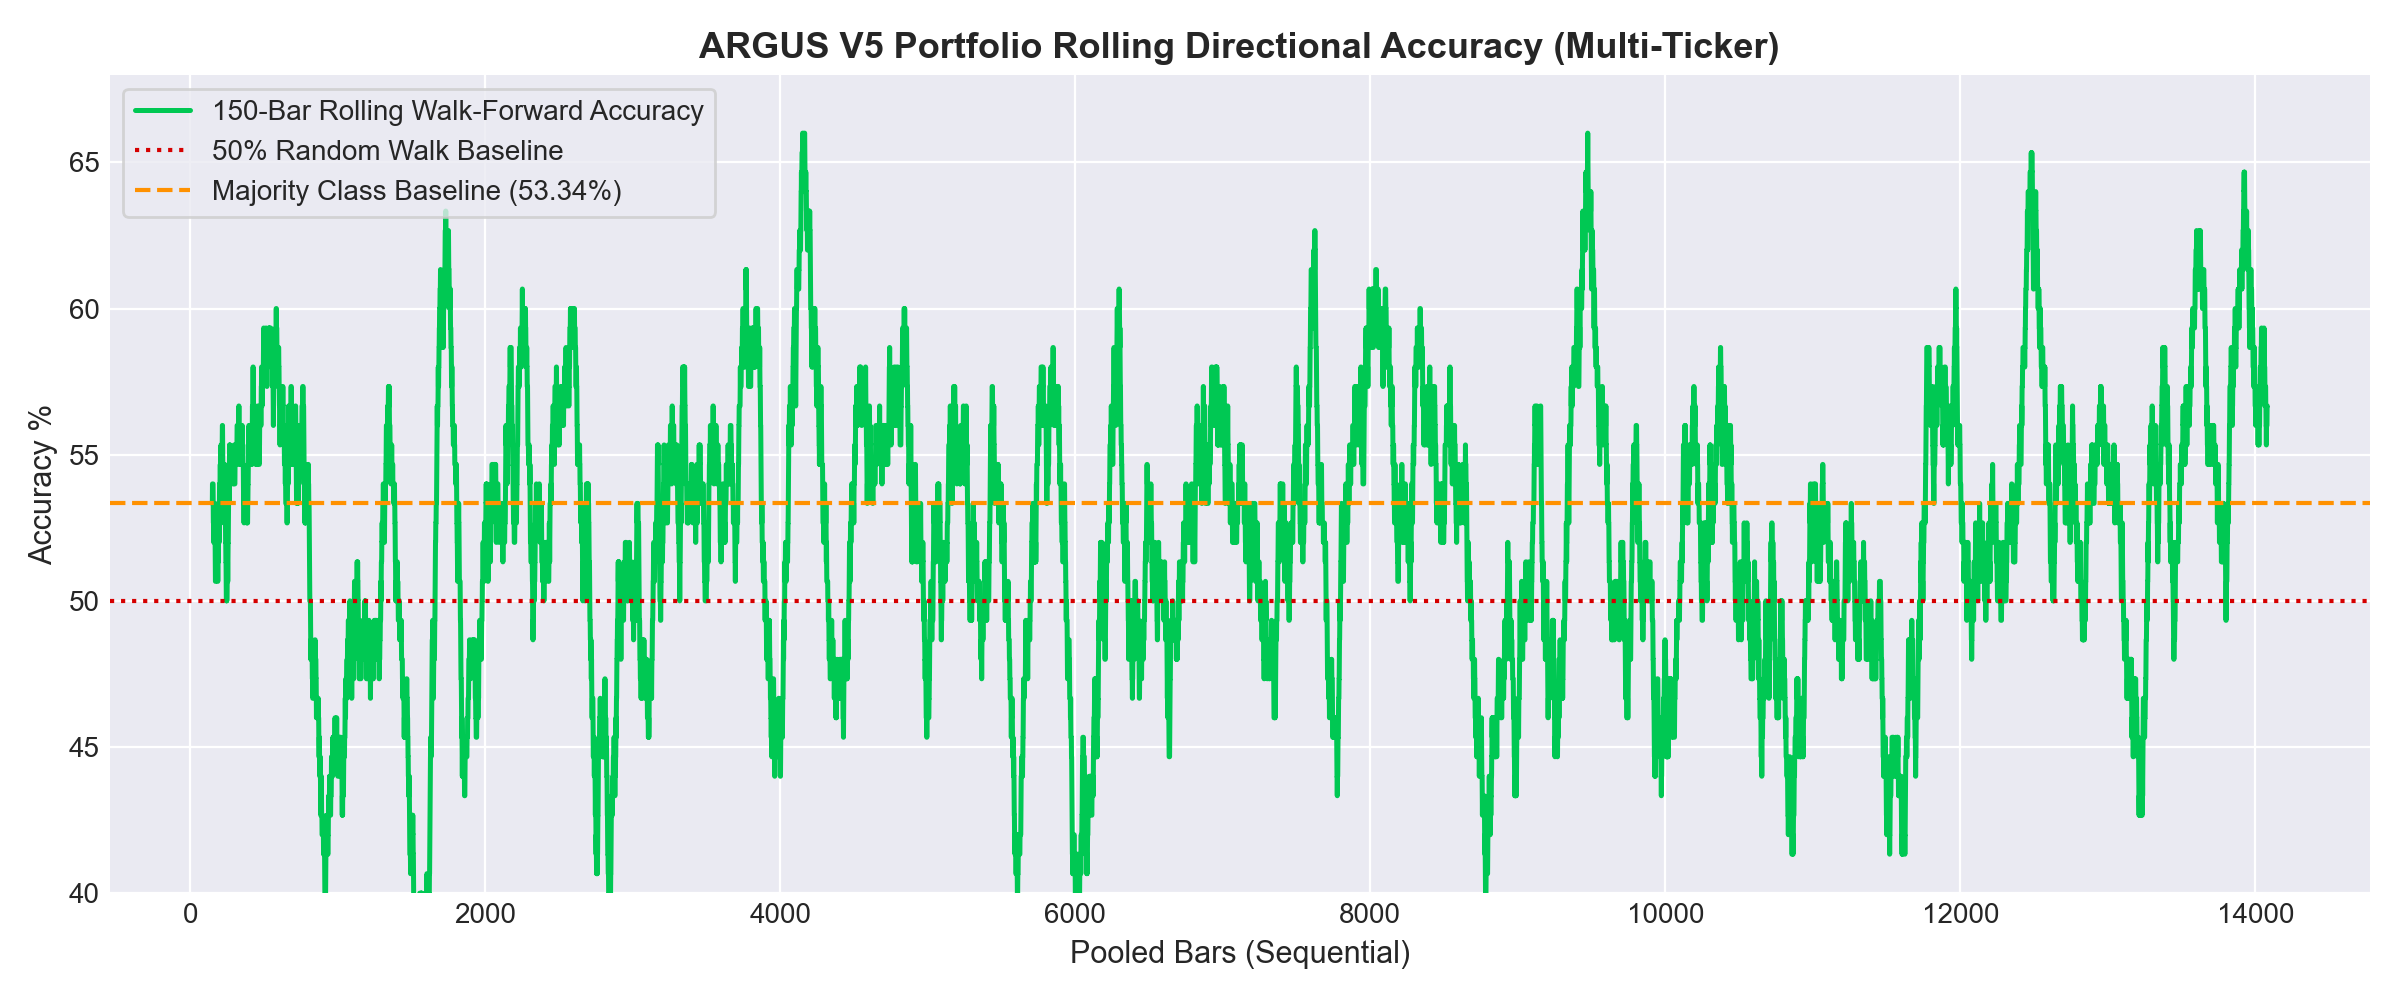
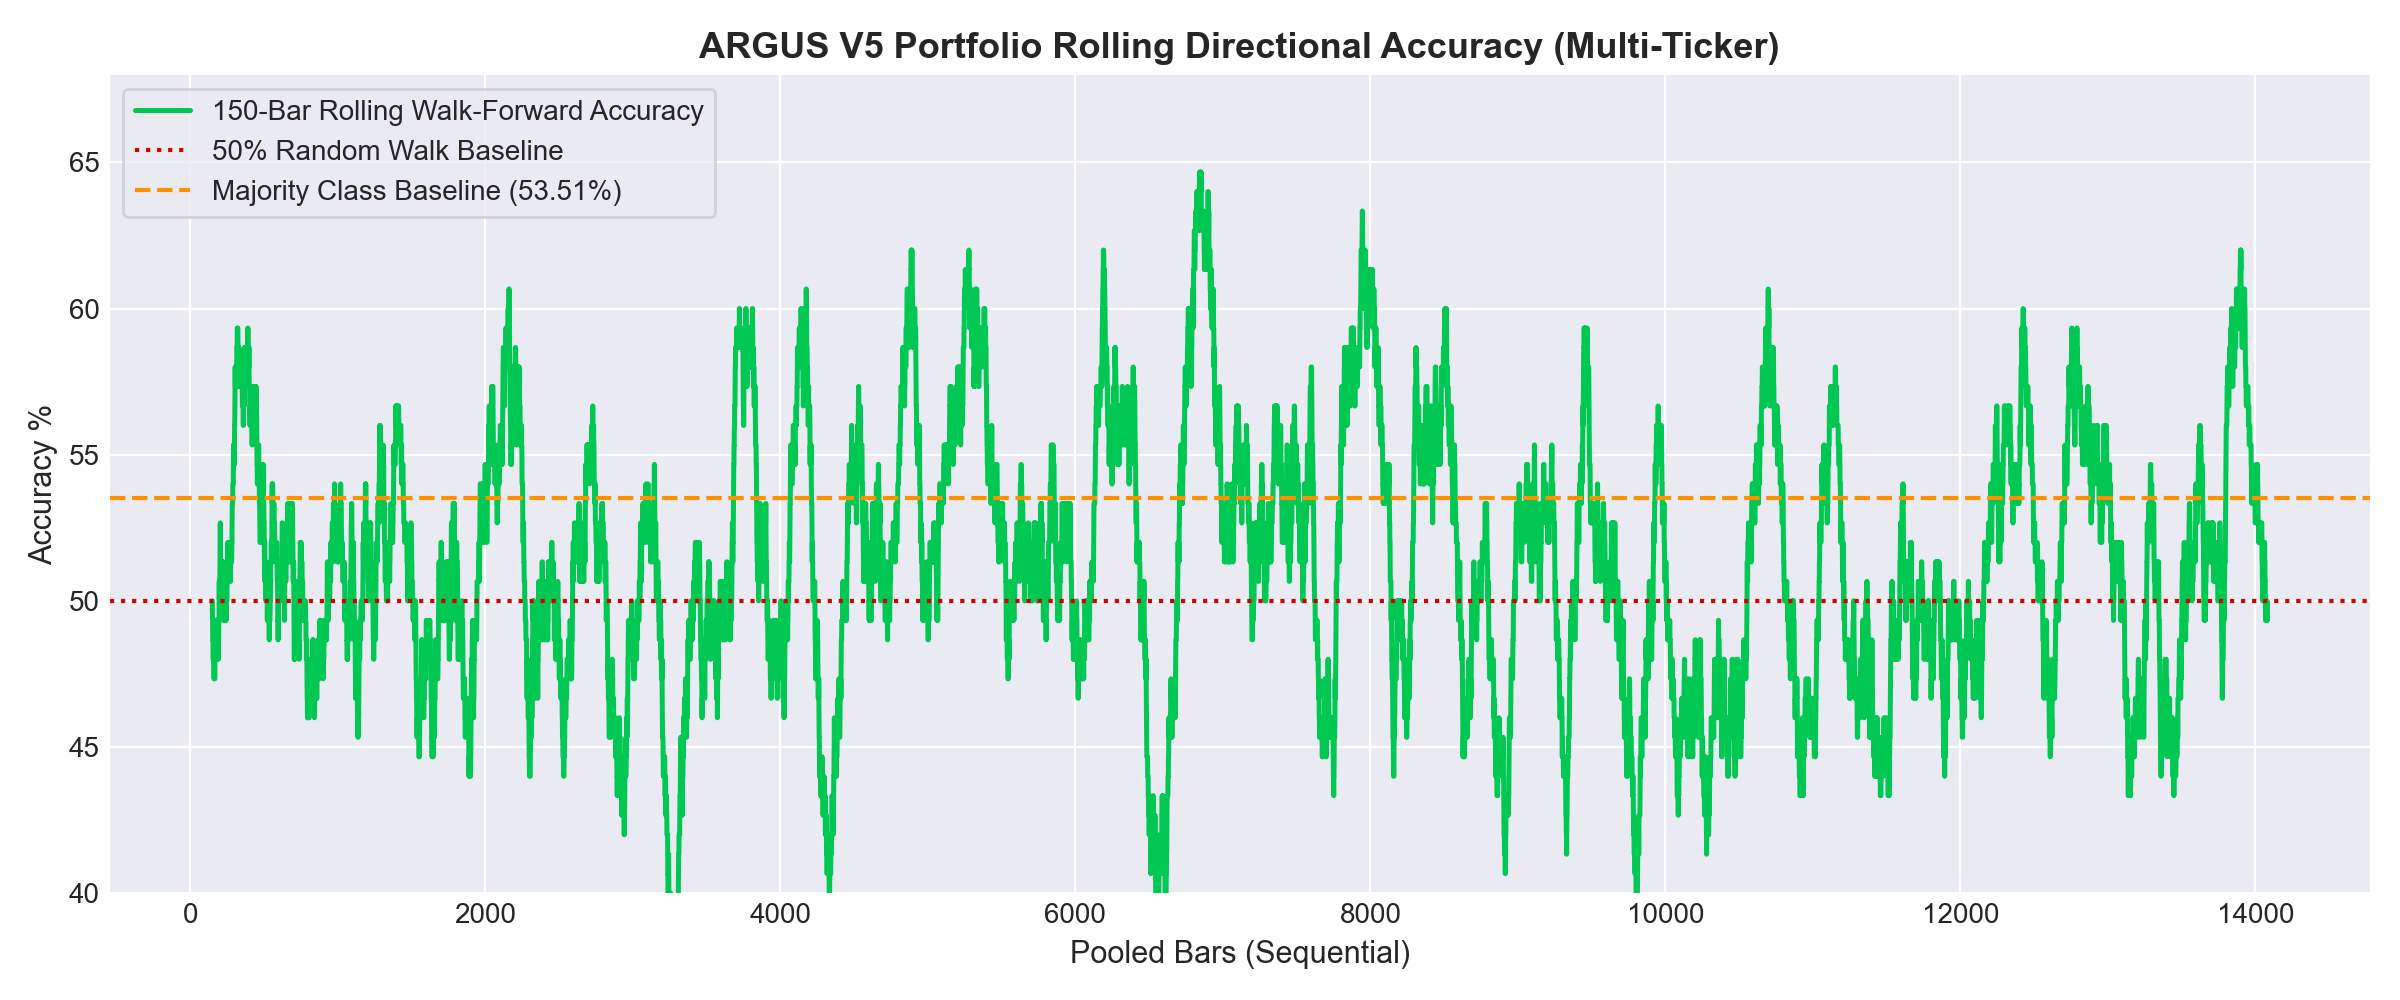
feat(ml): swap HoeffdingAdaptiveTreeClassifier with River ARFClassifier ensemble

Changed region(s): [[0.0312, 0.155, 1.0, 0.899], [0.5625, 0.899, 0.5938, 0.93]]

diff --git a/intelligence/online_learner.py b/intelligence/online_learner.py
@@ -10,7 +10,7 @@ import threading
 from datetime import datetime, timezone
 from typing import Dict, Any, Optional, Tuple
 
-from river import tree, preprocessing, drift, metrics
+from river import forest, preprocessing, drift, metrics
 from config import BASE_DIR
 from data.feature_store import FeatureStore
 
@@ -20,9 +20,9 @@ DEFAULT_ONLINE_MODEL_PATH = os.path.join(DEFAULT_MODEL_DIR, "online_learner.pkl"
 
 class OnlineLearner:
     """
-    Incremental ML classifier for continuous 5-minute directional market prediction.
+    Incremental ML classifier for continuous 15-minute directional market prediction.
     Features:
-    - Incremental Hoeffding Adaptive Tree (HAT) robust to non-stationary streams
+    - Incremental Adaptive Random Forest (ARF) ensemble robust to non-stationary streams
     - Online standard scaling of incoming numerical features
     - ADWIN (Adaptive Windowing) concept drift detection on classification error
     - Real-time calibration tracking via Brier Score and Rolling Accuracy
@@ -35,22 +35,26 @@ class OnlineLearner:
         feature_store: Optional[FeatureStore] = None,
         grace_period: int = 50,
         adwin_delta: float = 0.002,
+        n_models: int = 10,
     ):
         self.model_path = model_path
         self.feature_store = feature_store or FeatureStore()
         self.grace_period = grace_period
         self.adwin_delta = adwin_delta
+        self.n_models = n_models
 
         self._lock = threading.Lock()
         os.makedirs(os.path.dirname(self.model_path), exist_ok=True)
 
-        # Pipeline: Online Scaler -> Hoeffding Adaptive Tree Classifier (Naive Bayes Adaptive leaves)
-        self.pipeline = preprocessing.StandardScaler() | tree.HoeffdingAdaptiveTreeClassifier(
+        # Pipeline: Online Scaler -> Adaptive Random Forest Classifier (Naive Bayes Adaptive leaves)
+        self.pipeline = preprocessing.StandardScaler() | forest.ARFClassifier(
+            n_models=self.n_models,
             grace_period=self.grace_period,
             split_criterion="gini",
             delta=1e-5,
             tau=0.05,
             leaf_prediction="nba",  # Naive Bayes Adaptive for discriminating probabilities
+            seed=42,
         )
 
         # ADWIN drift monitor on absolute prediction error
@@ -212,7 +216,7 @@ class OnlineLearner:
         """Return diagnostic health and performance telemetry."""
         with self._lock:
             return {
-                "model_type": "River HoeffdingAdaptiveTreeClassifier + StandardScaler",
+                "model_type": "River ARFClassifier (Adaptive Random Forest) + StandardScaler",
                 "samples_seen": self.samples_seen,
                 "accuracy": round(float(self.accuracy_metric.get()), 4) if self.samples_seen > 0 else 0.5,
                 "brier_score": round(float(self.brier_metric.get()), 4) if self.samples_seen > 0 else 0.25,

diff --git a/evaluation/backtest.py b/evaluation/backtest.py
@@ -111,16 +111,27 @@ class WalkForwardBacktest:
         clean_df = df.copy().sort_index()
         n_bars = len(clean_df)
 
-        # Isolated model instances
-        online_learner = OnlineLearner(
-            model_path=os.path.join(EVAL_OUTPUT_DIR, f"eval_online_{ticker.replace('.NS', '')}.pkl")
-        )
+        # Isolated model instances: ensure fresh models for rolling-origin walk-forward evaluation
+        online_path = os.path.join(EVAL_OUTPUT_DIR, f"eval_online_{ticker.replace('.NS', '')}.pkl")
+        if os.path.exists(online_path):
+            try:
+                os.remove(online_path)
+            except Exception:
+                pass
+        online_learner = OnlineLearner(model_path=online_path)
+
         dl_retrainer = None
         if run_dl:
+            dl_path = os.path.join(EVAL_OUTPUT_DIR, f"eval_lstm_{ticker.replace('.NS', '')}.pt")
+            if os.path.exists(dl_path):
+                try:
+                    os.remove(dl_path)
+                except Exception:
+                    pass
             dl_retrainer = DeepLearningRetrainer(
                 input_dim=len(FEATURE_COLUMNS),
                 seq_len=15,
-                model_path=os.path.join(EVAL_OUTPUT_DIR, f"eval_lstm_{ticker.replace('.NS', '')}.pt"),
+                model_path=dl_path,
             )
 
         records = []
@@ -616,8 +627,14 @@ class WalkForwardBacktest:
         y_shuffled = np.random.permutation(y_true_list)
 
         # Run online learner on shuffled targets
+        shuffle_model_path = os.path.join(EVAL_OUTPUT_DIR, "eval_shuffle_test.pkl")
+        if os.path.exists(shuffle_model_path):
+            try:
+                os.remove(shuffle_model_path)
+            except Exception:
+                pass
         learner = OnlineLearner(
-            model_path=os.path.join(EVAL_OUTPUT_DIR, "eval_shuffle_test.pkl")
+            model_path=shuffle_model_path
         )
         preds = []
         for f, y_shuf in zip(feats_list[warmup_bars:], y_shuffled[warmup_bars:]):

diff --git a/api/main.py b/api/main.py
@@ -155,7 +155,7 @@ def get_health() -> Dict[str, Any]:
             "jobs": [j.name for j in app.state.news_scheduler.get_jobs()] if scheduler_running else [],
         },
         "online_learner": {
-            "model_type": "HoeffdingAdaptiveTreeClassifier",
+            "model_type": "ARFClassifier",
             "samples_seen": app.state.online_learner.samples_seen,
             "drifts_detected": app.state.online_learner.drift_count,
         },

diff --git a/tests/test_api.py b/tests/test_api.py
@@ -34,7 +34,7 @@ def test_api_health_check(client):
     assert data["database"]["reachable"] is True
     assert "scheduler" in data
     assert "online_learner" in data
-    assert data["online_learner"]["model_type"] == "HoeffdingAdaptiveTreeClassifier"
+    assert data["online_learner"]["model_type"] == "ARFClassifier"
     assert "telemetry" in data
 
 
